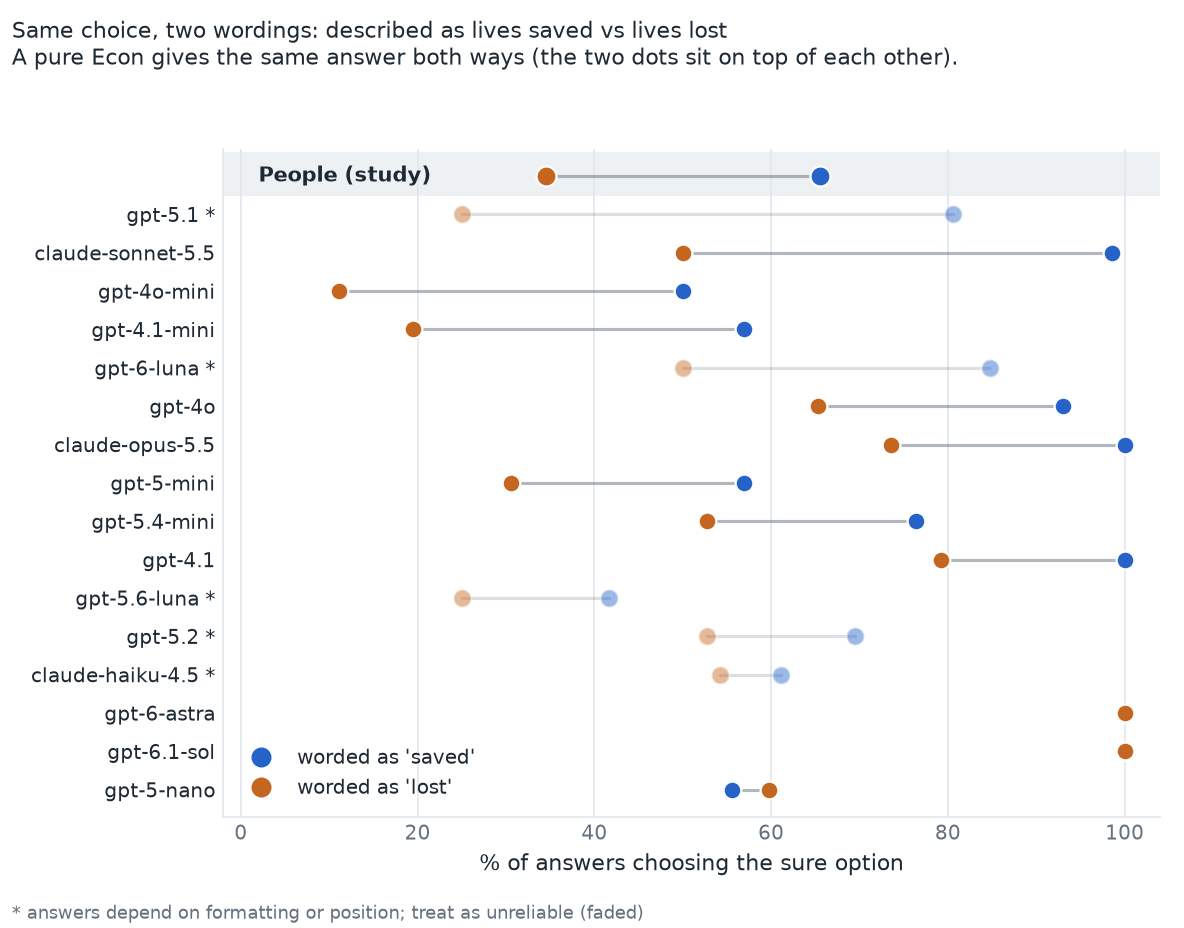
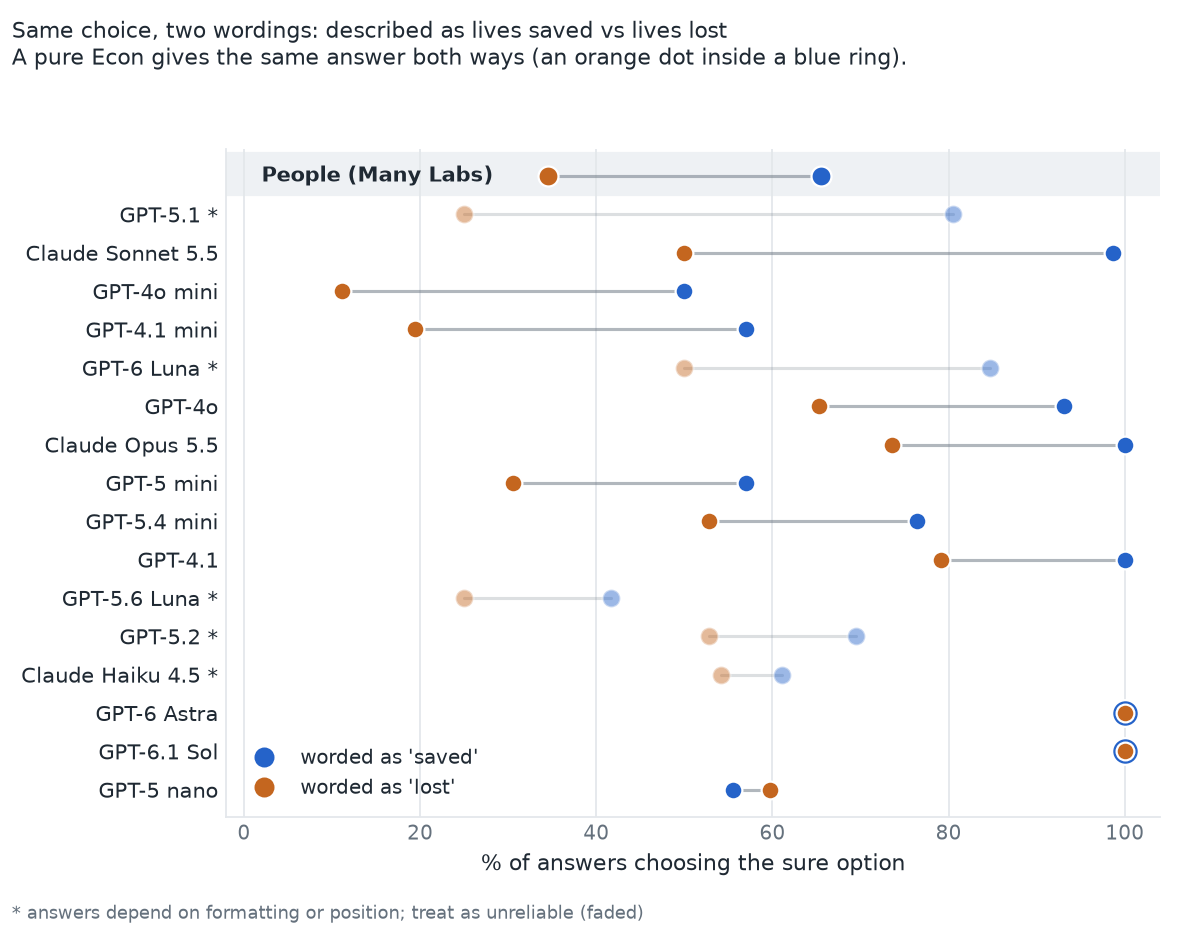
Polish charts (display names, rings for coincident dots, larger text, full legends); remove stray file

diff --git a/analysis/simple_charts.py b/analysis/simple_charts.py
@@ -31,6 +31,31 @@ HUMAN_SUNK = {"paid": 7.85, "free": 7.24}  # mean 1-9 rating of going to the eve
 # Models whose framing result is unreliable on this test (see docs/limitations.md and run 3 results).
 UNRELIABLE = {"claude-haiku-4.5", "gpt-5.1", "gpt-5.2", "gpt-5.6-luna", "gpt-6-luna"}
 
+# Display names used on the charts (the data files keep the API aliases).
+NAMES = {
+    "gpt-6.1-sol": "GPT-6.1 Sol",
+    "gpt-6-astra": "GPT-6 Astra",
+    "gpt-6-luna": "GPT-6 Luna",
+    "gpt-5.6-luna": "GPT-5.6 Luna",
+    "gpt-5.4-mini": "GPT-5.4 mini",
+    "gpt-5.2": "GPT-5.2",
+    "gpt-5.1": "GPT-5.1",
+    "gpt-5-mini": "GPT-5 mini",
+    "gpt-5-nano": "GPT-5 nano",
+    "gpt-4.1": "GPT-4.1",
+    "gpt-4.1-mini": "GPT-4.1 mini",
+    "gpt-4o": "GPT-4o",
+    "gpt-4o-mini": "GPT-4o mini",
+    "claude-opus-5.5": "Claude Opus 5.5",
+    "claude-sonnet-5.5": "Claude Sonnet 5.5",
+    "claude-haiku-4.5": "Claude Haiku 4.5",
+}
+PEOPLE = "People (Many Labs)"
+
+
+def _name(model: str, faded: bool = False) -> str:
+    return NAMES.get(model, model) + (" *" if faded and model in UNRELIABLE else "")
+
 
 def _style(ax) -> None:
     for side in ("top", "right"):
@@ -42,10 +67,16 @@ def _style(ax) -> None:
     ax.set_axisbelow(True)
 
 
-def _pair(ax, y, a, b, color_a=SAVED, color_b=LOST, size=8, alpha=1.0):
-    """Two dots joined by a thin line (the gap is the message)."""
+def _pair(ax, y, a, b, color_a=SAVED, color_b=LOST, size=8, alpha=1.0, tol=1.5):
+    """Two dots joined by a thin line (the gap is the message).
+
+    When the two values are within `tol`, the first dot is drawn as a larger ring behind the second,
+    so that both stay visible instead of one hiding the other.
+    """
     ax.plot([a, b], [y, y], color=MUTED, linewidth=1.4, alpha=0.5 * alpha, zorder=1, solid_capstyle="round")
-    ax.plot(a, y, "o", markersize=size, color=color_a, markeredgecolor="white", markeredgewidth=1, zorder=3, alpha=alpha)
+    first = size + 4 if abs(a - b) <= tol else size
+    ax.plot(a, y, "o", markersize=first, color=color_a, markeredgecolor="white", markeredgewidth=1,
+            zorder=2 if first > size else 3, alpha=alpha)
     ax.plot(b, y, "o", markersize=size, color=color_b, markeredgecolor="white", markeredgewidth=1, zorder=3, alpha=alpha)
 
 
@@ -71,17 +102,17 @@ def framing() -> Path:
     n = len(rows)
     ax.axhspan(n - 0.5, n + 0.6, color=BAND, zorder=0)
     _pair(ax, n, HUMAN_SURE["saved"], HUMAN_SURE["lost"], size=9)
-    ax.text(2, n, "People (study)", color=INK, fontsize=9.5, fontweight="bold", va="center")
+    ax.text(2, n, PEOPLE, color=INK, fontsize=9.5, fontweight="bold", va="center")
     for y, (m, saved, lost) in enumerate(rows):
         _pair(ax, y, saved, lost, alpha=0.45 if m in UNRELIABLE else 1.0)
     ax.set_yticks(range(n))
-    ax.set_yticklabels([m + (" *" if m in UNRELIABLE else "") for m, *_ in rows], color=INK, fontsize=9)
+    ax.set_yticklabels([_name(m, faded=True) for m, *_ in rows], color=INK, fontsize=9.5)
     ax.set_xlim(-2, 104)
     ax.set_ylim(-0.7, n + 0.7)
     ax.set_xlabel("% of answers choosing the sure option", color=INK, fontsize=10)
     fig.suptitle(
         "Same choice, two wordings: described as lives saved vs lives lost\n"
-        "A pure Econ gives the same answer both ways (the two dots sit on top of each other).",
+        "A pure Econ gives the same answer both ways (an orange dot inside a blue ring).",
         x=0.01,
         ha="left",
         fontsize=10,
@@ -111,18 +142,18 @@ def sunk_cost() -> Path:
     _style(ax)
     n = len(rows)
     ax.axhspan(n - 0.5, n + 0.6, color=BAND, zorder=0)
-    _pair(ax, n, HUMAN_SUNK["paid"], HUMAN_SUNK["free"], size=9)
-    ax.text(1.05, n, "People (study)", color=INK, fontsize=9.5, fontweight="bold", va="center")
+    _pair(ax, n, HUMAN_SUNK["paid"], HUMAN_SUNK["free"], size=9, tol=0.12)
+    ax.text(1.05, n, PEOPLE, color=INK, fontsize=9.5, fontweight="bold", va="center")
     for y, (_, paid, free) in enumerate(rows):
-        _pair(ax, y, paid, free)
+        _pair(ax, y, paid, free, tol=0.12)
     ax.set_yticks(range(n))
-    ax.set_yticklabels([m for m, *_ in rows], color=INK, fontsize=9)
+    ax.set_yticklabels([_name(m) for m, *_ in rows], color=INK, fontsize=9.5)
     ax.set_xlim(1, 9)
     ax.set_ylim(-0.7, n + 0.7)
     ax.set_xlabel("average rating of going to the event (1 = stay home, 9 = definitely go)", color=INK, fontsize=10)
     fig.suptitle(
         "Would you go in bad weather? Ticket you paid for vs a free ticket\n"
-        "A pure Econ ignores what was paid (the two dots sit on top of each other).",
+        "A pure Econ ignores what was paid (an orange dot inside a blue ring).",
         x=0.01,
         ha="left",
         fontsize=10,
@@ -149,30 +180,38 @@ def act_human() -> Path:
         ("gut", "'go with your gut'"),
         ("rational", "'act perfectly rational'"),
     ]
-    fig, axes = plt.subplots(1, 4, figsize=(10, 3.9), sharey=True, sharex=True)
-    for ax, m in zip(axes, part2.ANCHORS, strict=True):
+    fig, axes = plt.subplots(2, 2, figsize=(8.2, 6.3), sharey=True, sharex=True)
+    for ax, m in zip(axes.flat, part2.ANCHORS, strict=True):
         _style(ax)
+        ax.tick_params(labelsize=9.5)
         ax.axhspan(len(rows) - 0.5, len(rows) + 0.5, color=BAND, zorder=0)
         _pair(ax, len(rows), HUMAN_SURE["saved"], HUMAN_SURE["lost"], size=8)
         for y, (key, _) in enumerate(reversed(rows)):
             c = out["cells"][m][key]
             _pair(ax, y, 100 * c["gain"], 100 * c["loss"], size=8, alpha=1.0 if c["valid"] else 0.4)
-        ax.set_title(m, fontsize=10, color=INK, loc="left")
+        ax.set_title(_name(m), fontsize=11, color=INK, loc="left", fontweight="bold")
         ax.set_xlim(-4, 104)
         ax.set_ylim(-0.6, len(rows) + 0.6)
         ax.set_xticks([0, 50, 100])
-    axes[0].set_yticks(range(len(rows) + 1))
-    axes[0].set_yticklabels([lab for _, lab in reversed(rows)] + ["People (study)"], fontsize=8.5, color=INK)
-    fig.supxlabel("% of answers choosing the sure option", color=INK, fontsize=10)
+    axes[0, 0].set_yticks(range(len(rows) + 1))
+    for ax in axes[:, 0]:
+        ax.set_yticklabels([lab for _, lab in reversed(rows)] + [PEOPLE], fontsize=9.5, color=INK)
+    fig.supxlabel("% of answers choosing the sure option", color=INK, fontsize=10.5, y=0.065)
     fig.suptitle(
-        "Does telling the model to act human (or rational) change the gap? (blue: worded as 'saved', orange: 'lost')\n"
-        "Humans: dots about 30 points apart. An Econ: dots on top of each other. Faded: unreliable (always favored one position).",
+        "Does telling the model to act human (or rational) change the framing swing?\n"
+        "People: dots about 30 points apart. An Econ: an orange dot inside a blue ring.\n"
+        "Faded dots: unreliable (the model always favored one position).",
         x=0.01,
         ha="left",
-        fontsize=10,
+        fontsize=10.5,
         color=INK,
     )
-    fig.tight_layout(rect=(0, 0.04, 1, 0.92))
+    handles = [
+        plt.Line2D([], [], marker="o", color=SAVED, linestyle="", markersize=8, label="worded as 'saved'"),
+        plt.Line2D([], [], marker="o", color=LOST, linestyle="", markersize=8, label="worded as 'lost'"),
+    ]
+    fig.legend(handles=handles, loc="lower center", ncol=2, frameon=False, fontsize=10, labelcolor=INK)
+    fig.tight_layout(rect=(0, 0.1, 1, 0.9))
     path = OUT / "chart_act_human.png"
     fig.savefig(path, dpi=160)
     plt.close(fig)
@@ -204,9 +243,10 @@ def swing() -> Path:
     ax.text(human + 1, len(rows) - 0.4, "people: 31 points", color=MUTED, fontsize=9, va="bottom")
     for y, (m, g) in enumerate(rows):
         ax.barh(y, g, height=0.5, color=SAVED, alpha=0.4 if m in UNRELIABLE else 1.0, zorder=2)
-        ax.text(max(g, 0) + 1, y, f"{g:.0f}", va="center", color=INK, fontsize=8.5)
+        ax.text(max(g, 0) + 1.2, y, f"{g:.0f}", va="center", color=INK, fontsize=9, zorder=5,
+                bbox={"facecolor": "white", "edgecolor": "none", "pad": 1.2})
     ax.set_yticks(range(len(rows)))
-    ax.set_yticklabels([m + (" *" if m in UNRELIABLE else "") for m, _ in rows], color=INK, fontsize=9)
+    ax.set_yticklabels([_name(m, faded=True) for m, _ in rows], color=INK, fontsize=9.5)
     ax.set_xlim(-8, 100)
     ax.set_ylim(-0.7, len(rows))
     ax.set_xlabel("swing between the two wordings (percentage points)", color=INK, fontsize=10)
@@ -235,7 +275,7 @@ def format_check() -> Path:
     for y, (m, a, b) in enumerate(rows):
         _pair(ax, y, a, b, color_a=FMT_AB, color_b=FMT_N, alpha=0.4 if m in UNRELIABLE else 1.0)
     ax.set_yticks(range(n))
-    ax.set_yticklabels([m + (" *" if m in UNRELIABLE else "") for m, *_ in rows], color=INK, fontsize=9)
+    ax.set_yticklabels([_name(m, faded=True) for m, *_ in rows], color=INK, fontsize=9.5)
     ax.set_xlim(min(-10, min(min(a, b) for _, a, b in rows) - 4), 100)
     ax.set_ylim(-0.7, n - 0.3)
     ax.set_xlabel("swing between the two wordings (percentage points)", color=INK, fontsize=10)
@@ -269,7 +309,7 @@ def position_check() -> Path:
         ax.plot([50, s], [y, y], color=MUTED, linewidth=1.2, alpha=0.5, zorder=2)
         ax.plot(s, y, "o", markersize=8, color=SAVED if s > 20 else LOST, markeredgecolor="white", zorder=3)
     ax.set_yticks(range(len(rows)))
-    ax.set_yticklabels([m for m, _ in rows], color=INK, fontsize=9)
+    ax.set_yticklabels([_name(m) for m, _ in rows], color=INK, fontsize=9.5)
     ax.text(rows[0][1] + 2, 0.35, "picks the second-listed option 92% of the time", color=MUTED, fontsize=8.5)
     ax.set_xlim(0, 100)
     ax.set_xlabel("% of answers choosing whichever option was listed first", color=INK, fontsize=10)
@@ -309,7 +349,7 @@ def paid_free_slopes() -> Path:
         ["gpt-6.1-sol", "gpt-6-astra", "claude-sonnet-5.5", "claude-opus-5.5"],
         ["gpt-4.1", "claude-haiku-4.5", "gpt-4o-mini", "gpt-5-nano"],
     ]
-    fig, axes = plt.subplots(2, 4, figsize=(10, 6.2), sharey=True)
+    fig, axes = plt.subplots(2, 4, figsize=(10, 7.2), sharey=True)
     for ax, m in zip(axes.flat, [m for row in models for m in row], strict=True):
         by = _sunk_by_scenario(recs, m)
         up = down = 0
@@ -325,23 +365,31 @@ def paid_free_slopes() -> Path:
         ax.grid(axis="y", color=GRID, linewidth=0.8)
         ax.set_xlim(-0.35, 1.35)
         ax.set_xticks([0, 1])
-        ax.set_xticklabels(["free", "paid"], color=INK, fontsize=9)
+        ax.set_xticklabels(["free", "paid"], color=INK, fontsize=10.5)
+        ax.tick_params(axis="y", labelsize=10)
         ax.set_ylim(1, 9)
-        ax.set_title(f"{m}\n{mean_paid - mean_free:+.1f} points; {up} up, {down} down of {len(by)}",
-                     fontsize=9, color=INK, loc="left")
+        ax.set_title(f"{_name(m)}\n{mean_paid - mean_free:+.1f} points\n{up} up, {down} down of {len(by)}",
+                     fontsize=10.5, color=INK, loc="left", linespacing=1.35)
     for ax in axes[:, 0]:
-        ax.set_ylabel("average rating (1-9)", color=INK, fontsize=9)
+        ax.set_ylabel("average rating (1-9)", color=INK, fontsize=10.5)
     fig.suptitle(
         "Same story, one sentence changed: does the rating follow?\n"
-        "Each thin line is one of the 12 scenarios (blue: rated higher when paid, orange: higher when free). "
-        "Thick line: average.",
-        x=0.01, ha="left", fontsize=10, color=INK,
+        "Each thin line is one of the 12 scenarios; the thick line is the average.",
+        x=0.01, ha="left", fontsize=11.5, color=INK,
     )
+    handles = [
+        plt.Line2D([], [], color=SAVED, linewidth=2.2, label="rated higher when paid"),
+        plt.Line2D([], [], color=LOST, linewidth=2.2, label="rated higher when free"),
+        plt.Line2D([], [], color=MUTED, linewidth=2.2, label="no change"),
+        plt.Line2D([], [], color=INK, linewidth=3.5, label="average"),
+    ]
+    fig.legend(handles=handles, loc="upper left", ncol=4, frameon=False, fontsize=10, labelcolor=INK,
+               bbox_to_anchor=(0.005, 0.915), columnspacing=1.6, handlelength=1.8)
     fig.text(0.01, 0.01, "Eight of the 16 models are shown. Top row: the two models with no framing effect and the two Claude models.\n"
              "Bottom row: the largest gap (GPT-4.1) and the three models with no gap or a reversed one.\n"
              "The other eight have average gaps from -0.1 to +1.5 points; all 16 are in chart_sunk_cost.png.",
-             color=MUTED, fontsize=8)
-    fig.tight_layout(rect=(0, 0.07, 1, 0.92))
+             color=MUTED, fontsize=9)
+    fig.tight_layout(rect=(0, 0.075, 1, 0.9))
     path = OUT / "chart_paid_free_slopes.png"
     fig.savefig(path, dpi=160)
     plt.close(fig)
@@ -367,7 +415,7 @@ def swing_by_position() -> Path:
         ax.plot(c["pooled"]["swing"], y, marker="|", markersize=15, markeredgewidth=2, color=INK,
                 alpha=alpha, zorder=4, linestyle="")
     ax.set_yticks(range(len(rows)))
-    ax.set_yticklabels([m + (" *" if m in UNRELIABLE else "") for m, _ in rows], color=INK, fontsize=9)
+    ax.set_yticklabels([_name(m, faded=True) for m, _ in rows], color=INK, fontsize=9.5)
     ax.set_xlim(-22, 100)
     ax.set_ylim(-0.7, len(rows))
     ax.set_xlabel("swing between the two wordings (percentage points)", color=INK, fontsize=10)
@@ -384,7 +432,7 @@ def swing_by_position() -> Path:
         x=0.01, ha="left", fontsize=10, color=INK,
     )
     fig.text(0.01, 0.01, "* unreliable on this test (faded). About 36 answers per wording in each layout "
-             "(fewer for gpt-6-astra).", color=MUTED, fontsize=8)
+             "(fewer for GPT-6 Astra).", color=MUTED, fontsize=8)
     fig.tight_layout(rect=(0, 0.03, 1, 0.93))
     path = OUT / "chart_swing_by_position.png"
     fig.savefig(path, dpi=160)
